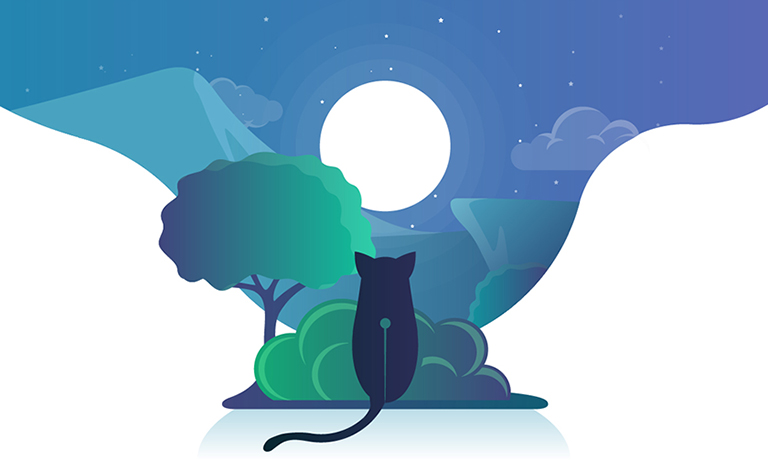
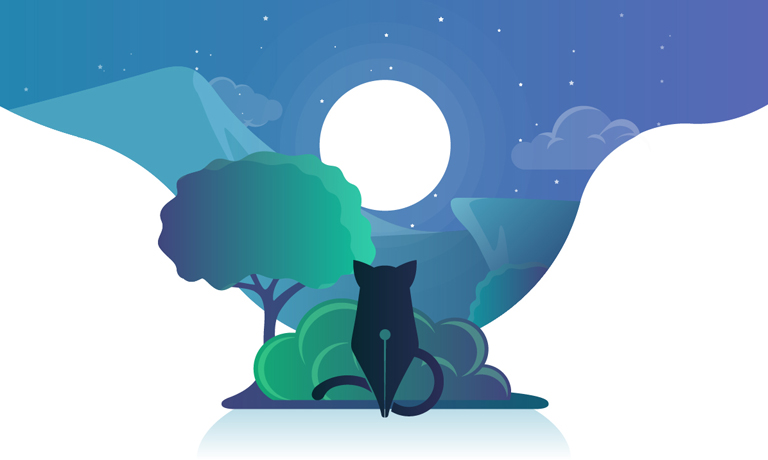
Updated header image. Updated index page. Updated nuxt links. Added active class to navbar and controlling transparent class.

diff --git a/packages/inkline.io/layouts/default.vue b/packages/inkline.io/layouts/default.vue
@@ -1,6 +1,6 @@
 <template>
 <div id="default-layout">
-    <navbar id="navbar" class="-transparent" />
+    <navbar id="navbar" :class="navbarClass" />
     <i-layout>
         <i-layout-content>
             <nuxt />
@@ -15,6 +15,8 @@
 
 #default-layout
     .navbar
+        transition: background 0.3s ease;
+
         .logo.-light
             display: none;
 
@@ -31,6 +33,13 @@
                     &.-dark
                         display: none;
 
+                .items
+                    background: rgba(0, 0, 0, 0.2)
+
+                .nav > .item:hover
+                    background: rgba(0, 0, 0, 0.1)
+
+
             +-breakpoint-up(lg)
                 .brand
                     color: --colors['dark']
@@ -41,18 +50,25 @@
                     &.-dark
                         display: inline-block;
 
+            .nav
+                > .item
+                    color: white
+
+            .hamburger
+                > .bars::before,
+                > .bars,
+                > .bars::after
+                    background-color: --colors['white']
 
 
-
-        .nav
-            > .item
-                color: white
 </style>
 
 <script>
 import Navbar from '@components/Navbar';
 import Layout from "@components/Layout";
 import { IContainer, IColumn, IRow } from '@inkline/inkline';
+
+import {on} from "@inkline/inkline/src/helpers";
 
 export default {
     name: 'Default',
@@ -65,6 +81,22 @@ export default {
         IColumn,
         IRow,
         Navbar
+    },
+    data () {
+        return {
+            navbarClass: {
+                '-transparent': true
+            }
+        }
+    },
+    methods: {
+        onScroll () {
+            this.navbarClass['-transparent'] = (window.pageYOffset || document.documentElement.scrollTop) === 0;
+        }
+    },
+    created () {
+        on(window, 'scroll', this.onScroll);
+        this.onScroll();
     }
 };
 </script>

diff --git a/packages/inkline.io/pages/index.vue b/packages/inkline.io/pages/index.vue
@@ -7,7 +7,7 @@
                     <h2 class="header-subtitle">
                         Inkline is a modern <strong>UI/UX Framework for Vue.js</strong> designed for creating flawless responsive web applications.
                     </h2>
-                    <i-button size="lg" variant="primary" class="_margin-top-2">Get Started</i-button>
+                    <i-button size="lg" variant="primary" class="_margin-top-2" :to="{ name: 'docs-development-getting-started' }">Get Started</i-button>
                 </i-column>
             </i-row>
         </i-header>
@@ -16,7 +16,7 @@
                 <i-column>
                     <i-row>
                         <i-column xs="12">
-                            <site-navigation></site-navigation>
+
                         </i-column>
                     </i-row>
                 </i-column>

diff --git a/packages/inkline.io/components/PageNavigation/script.js b/packages/inkline.io/components/PageNavigation/script.js
@@ -1,4 +1,5 @@
 import { findIndex, findLastIndex, throttle } from 'lodash';
+import { on, off } from "@inkline/inkline/src/helpers";
 
 function wasInViewport (element) {
     if (!element) { return; }
@@ -75,6 +76,9 @@ export default {
         this.update();
         this.$nuxt.$on('viewLoaded', this.update);
 
-        window.addEventListener('scroll', throttle(this.onScroll, 500));
+        on(window, 'scroll', throttle(this.onScroll, 250));
+    },
+    destroyed () {
+        off(window, 'scroll', throttle(this.onScroll, 250));
     }
 };

diff --git a/packages/inkline.io/components/Navbar/template.html b/packages/inkline.io/components/Navbar/template.html
@@ -8,6 +8,7 @@
         <i-nav>
             <i-nav-item :to="{ name: 'index' }">Home</i-nav-item>
             <i-nav-item :to="{ name: 'docs-development-getting-started' }">Documentation</i-nav-item>
+            <i-nav-item href="https://github.com/inkline/inkline" target="_blank"><font-awesome-icon :icon="['fab', 'github']" size="lg" /></i-nav-item>
         </i-nav>
     </i-navbar-items>
 </i-navbar>

diff --git a/packages/inkline.io/nuxt.config.js b/packages/inkline.io/nuxt.config.js
@@ -69,10 +69,17 @@ module.exports = {
     /*
     ** Nuxt.js modules
     */
-    modules: [,
-        // '@nuxtjs/pwa',
+    modules: [
+        '@nuxtjs/pwa',
         'nuxt-babel'
     ],
+
+    /**
+     * Nuxt router link
+     */
+    router: {
+        linkExactActiveClass: '-active nuxt-link-exact-active'
+    },
 
     /*
     ** Build configuration

diff --git a/packages/inkline.io/pages/docs/components/navbar/template.md b/packages/inkline.io/pages/docs/components/navbar/template.md
@@ -7,12 +7,12 @@ Here’s an example of the basic components included in a  `<i-navbar>` that aut
 <i-code-preview title="Navbar Example" link="https://github.com/inkline/inkline/tree/master/src/components/Navbar">
 
 <i-navbar>
-    <i-navbar-brand :to="{ name: 'docs-components-navbar' }">Navbar</i-navbar-brand>
+    <i-navbar-brand :to="{ name: 'index' }">Navbar</i-navbar-brand>
     <i-navbar-items>
         <i-nav>
-            <i-nav-item :to="{ name: 'docs-components-navbar' }">Home</i-nav-item>
-            <i-nav-item :to="{ name: 'docs-components-navbar' }">About</i-nav-item>
-            <i-nav-item :to="{ name: 'docs-components-navbar' }">Contact</i-nav-item>
+            <i-nav-item :to="{ name: 'index' }">Home</i-nav-item>
+            <i-nav-item :to="{ name: 'index' }">About</i-nav-item>
+            <i-nav-item :to="{ name: 'index' }">Contact</i-nav-item>
         </i-nav>
         <i-nav>
             <i-input placeholder="Type something.." class="_margin-right-1" />
@@ -50,34 +50,34 @@ The default size is set to `md`.
 <i-code-preview title="Navbar Sizes" link="https://github.com/inkline/inkline/tree/master/src/components/Navbar">
 
 <i-navbar size="sm" class="_margin-bottom-1">
-    <i-navbar-brand :to="{ name: 'docs-components-navbar' }">Navbar</i-navbar-brand>
+    <i-navbar-brand :to="{ name: 'index' }">Navbar</i-navbar-brand>
     <i-navbar-items>
         <i-nav>
-            <i-nav-item :to="{ name: 'docs-components-navbar' }">Home</i-nav-item>
-            <i-nav-item :to="{ name: 'docs-components-navbar' }">About</i-nav-item>
-            <i-nav-item :to="{ name: 'docs-components-navbar' }">Contact</i-nav-item>
+            <i-nav-item :to="{ name: 'index' }">Home</i-nav-item>
+            <i-nav-item :to="{ name: 'index' }">About</i-nav-item>
+            <i-nav-item :to="{ name: 'index' }">Contact</i-nav-item>
         </i-nav>
     </i-navbar-items>
 </i-navbar>
 
 <i-navbar size="md" class="_margin-bottom-1">
-    <i-navbar-brand :to="{ name: 'docs-components-navbar' }">Navbar</i-navbar-brand>
+    <i-navbar-brand :to="{ name: 'index' }">Navbar</i-navbar-brand>
     <i-navbar-items>
         <i-nav>
-            <i-nav-item :to="{ name: 'docs-components-navbar' }">Home</i-nav-item>
-            <i-nav-item :to="{ name: 'docs-components-navbar' }">About</i-nav-item>
-            <i-nav-item :to="{ name: 'docs-components-navbar' }">Contact</i-nav-item>
+            <i-nav-item :to="{ name: 'index' }">Home</i-nav-item>
+            <i-nav-item :to="{ name: 'index' }">About</i-nav-item>
+            <i-nav-item :to="{ name: 'index' }">Contact</i-nav-item>
         </i-nav>
     </i-navbar-items>
 </i-navbar>
 
 <i-navbar size="lg">
-    <i-navbar-brand :to="{ name: 'docs-components-navbar' }">Navbar</i-navbar-brand>
+    <i-navbar-brand :to="{ name: 'index' }">Navbar</i-navbar-brand>
     <i-navbar-items>
         <i-nav>
-            <i-nav-item :to="{ name: 'docs-components-navbar' }">Home</i-nav-item>
-            <i-nav-item :to="{ name: 'docs-components-navbar' }">About</i-nav-item>
-            <i-nav-item :to="{ name: 'docs-components-navbar' }">Contact</i-nav-item>
+            <i-nav-item :to="{ name: 'index' }">Home</i-nav-item>
+            <i-nav-item :to="{ name: 'index' }">About</i-nav-item>
+            <i-nav-item :to="{ name: 'index' }">Contact</i-nav-item>
         </i-nav>
     </i-navbar-items>
 </i-navbar>
@@ -131,23 +131,23 @@ Inkline includes two predefined navbar styles. You can set the style of a `<i-na
 <i-code-preview title="Navbar Variants" link="https://github.com/inkline/inkline/tree/master/src/components/Navbar">
 
 <i-navbar variant="light" class="_margin-bottom-1">
-    <i-navbar-brand :to="{ name: 'docs-components-navbar' }">Navbar</i-navbar-brand>
+    <i-navbar-brand :to="{ name: 'index' }">Navbar</i-navbar-brand>
     <i-navbar-items>
         <i-nav>
-            <i-nav-item :to="{ name: 'docs-components-navbar' }">Home</i-nav-item>
-            <i-nav-item :to="{ name: 'docs-components-navbar' }">About</i-nav-item>
-            <i-nav-item :to="{ name: 'docs-components-navbar' }">Contact</i-nav-item>
+            <i-nav-item :to="{ name: 'index' }">Home</i-nav-item>
+            <i-nav-item :to="{ name: 'index' }">About</i-nav-item>
+            <i-nav-item :to="{ name: 'index' }">Contact</i-nav-item>
         </i-nav>
     </i-navbar-items>
 </i-navbar>
 
 <i-navbar variant="dark">
-    <i-navbar-brand :to="{ name: 'docs-components-navbar' }">Navbar</i-navbar-brand>
+    <i-navbar-brand :to="{ name: 'index' }">Navbar</i-navbar-brand>
     <i-navbar-items>
         <i-nav>
-            <i-nav-item :to="{ name: 'docs-components-navbar' }">Home</i-nav-item>
-            <i-nav-item :to="{ name: 'docs-components-navbar' }">About</i-nav-item>
-            <i-nav-item :to="{ name: 'docs-components-navbar' }">Contact</i-nav-item>
+            <i-nav-item :to="{ name: 'index' }">Home</i-nav-item>
+            <i-nav-item :to="{ name: 'index' }">About</i-nav-item>
+            <i-nav-item :to="{ name: 'index' }">Contact</i-nav-item>
         </i-nav>
     </i-navbar-items>
 </i-navbar>
@@ -188,12 +188,12 @@ You can use an `<i-dropdown>` component inside the `<i-navbar-items>` or `<i-nav
 <i-code-preview title="Navbar Dropdown" link="https://github.com/inkline/inkline/tree/master/src/components/Navbar">
 
 <i-navbar>
-    <i-navbar-brand :to="{ name: 'docs-components-navbar' }">Navbar</i-navbar-brand>
+    <i-navbar-brand :to="{ name: 'index' }">Navbar</i-navbar-brand>
     <i-navbar-items>
         <i-nav>
-            <i-nav-item :to="{ name: 'docs-components-navbar' }">Home</i-nav-item>
-            <i-nav-item :to="{ name: 'docs-components-navbar' }">About</i-nav-item>
-            <i-nav-item :to="{ name: 'docs-components-navbar' }">Contact</i-nav-item>
+            <i-nav-item :to="{ name: 'index' }">Home</i-nav-item>
+            <i-nav-item :to="{ name: 'index' }">About</i-nav-item>
+            <i-nav-item :to="{ name: 'index' }">Contact</i-nav-item>
         </i-nav>
         <i-nav>
             <i-dropdown placement="bottom-end">
@@ -246,35 +246,35 @@ You can position the `<i-nav>` component to the `start`, `end`, or `center` of t
 <i-code-preview title="Navbar Nav Placement" link="https://github.com/inkline/inkline/tree/master/src/components/Navbar">
 
 <i-navbar class="_margin-bottom-1">
-    <i-navbar-brand :to="{ name: 'docs-components-navbar' }">Navbar</i-navbar-brand>
+    <i-navbar-brand :to="{ name: 'index' }">Navbar</i-navbar-brand>
     <i-navbar-items class="_justify-content-start">
         <i-nav>
-            <i-nav-item :to="{ name: 'docs-components-navbar' }">Home</i-nav-item>
-            <i-nav-item :to="{ name: 'docs-components-navbar' }">About</i-nav-item>
-            <i-nav-item :to="{ name: 'docs-components-navbar' }">Contact</i-nav-item>
+            <i-nav-item :to="{ name: 'index' }">Home</i-nav-item>
+            <i-nav-item :to="{ name: 'index' }">About</i-nav-item>
+            <i-nav-item :to="{ name: 'index' }">Contact</i-nav-item>
         </i-nav>
     </i-navbar-items>
 </i-navbar>
 
 
 <i-navbar class="_margin-bottom-1">
-    <i-navbar-brand :to="{ name: 'docs-components-navbar' }">Navbar</i-navbar-brand>
+    <i-navbar-brand :to="{ name: 'index' }">Navbar</i-navbar-brand>
     <i-navbar-items class="_justify-content-center">
         <i-nav>
-            <i-nav-item :to="{ name: 'docs-components-navbar' }">Home</i-nav-item>
-            <i-nav-item :to="{ name: 'docs-components-navbar' }">About</i-nav-item>
-            <i-nav-item :to="{ name: 'docs-components-navbar' }">Contact</i-nav-item>
+            <i-nav-item :to="{ name: 'index' }">Home</i-nav-item>
+            <i-nav-item :to="{ name: 'index' }">About</i-nav-item>
+            <i-nav-item :to="{ name: 'index' }">Contact</i-nav-item>
         </i-nav>
     </i-navbar-items>
 </i-navbar>
 
 <i-navbar>
-    <i-navbar-brand :to="{ name: 'docs-components-navbar' }">Navbar</i-navbar-brand>
+    <i-navbar-brand :to="{ name: 'index' }">Navbar</i-navbar-brand>
     <i-navbar-items class="_justify-content-end">
         <i-nav>
-            <i-nav-item :to="{ name: 'docs-components-navbar' }">Home</i-nav-item>
-            <i-nav-item :to="{ name: 'docs-components-navbar' }">About</i-nav-item>
-            <i-nav-item :to="{ name: 'docs-components-navbar' }">Contact</i-nav-item>
+            <i-nav-item :to="{ name: 'index' }">Home</i-nav-item>
+            <i-nav-item :to="{ name: 'index' }">About</i-nav-item>
+            <i-nav-item :to="{ name: 'index' }">Contact</i-nav-item>
         </i-nav>
     </i-navbar-items>
 </i-navbar>
